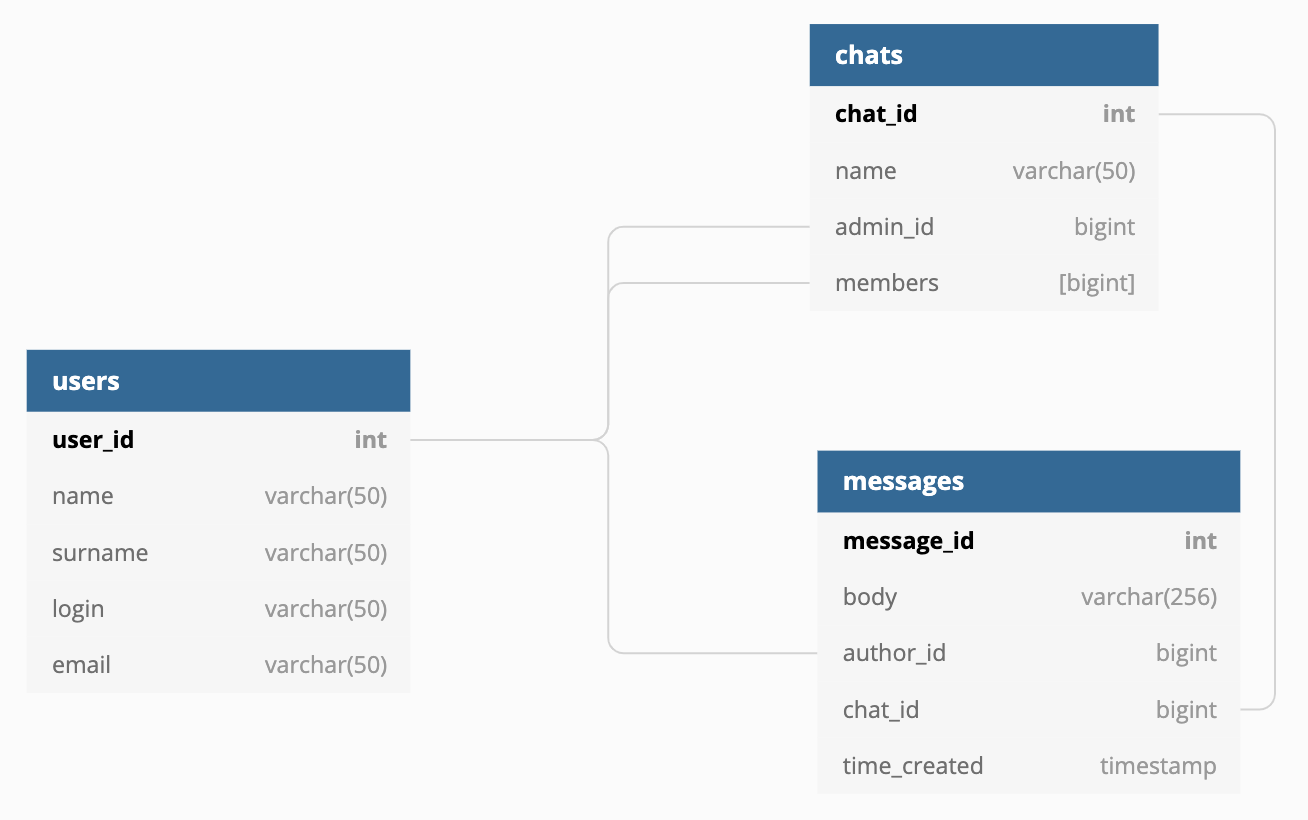
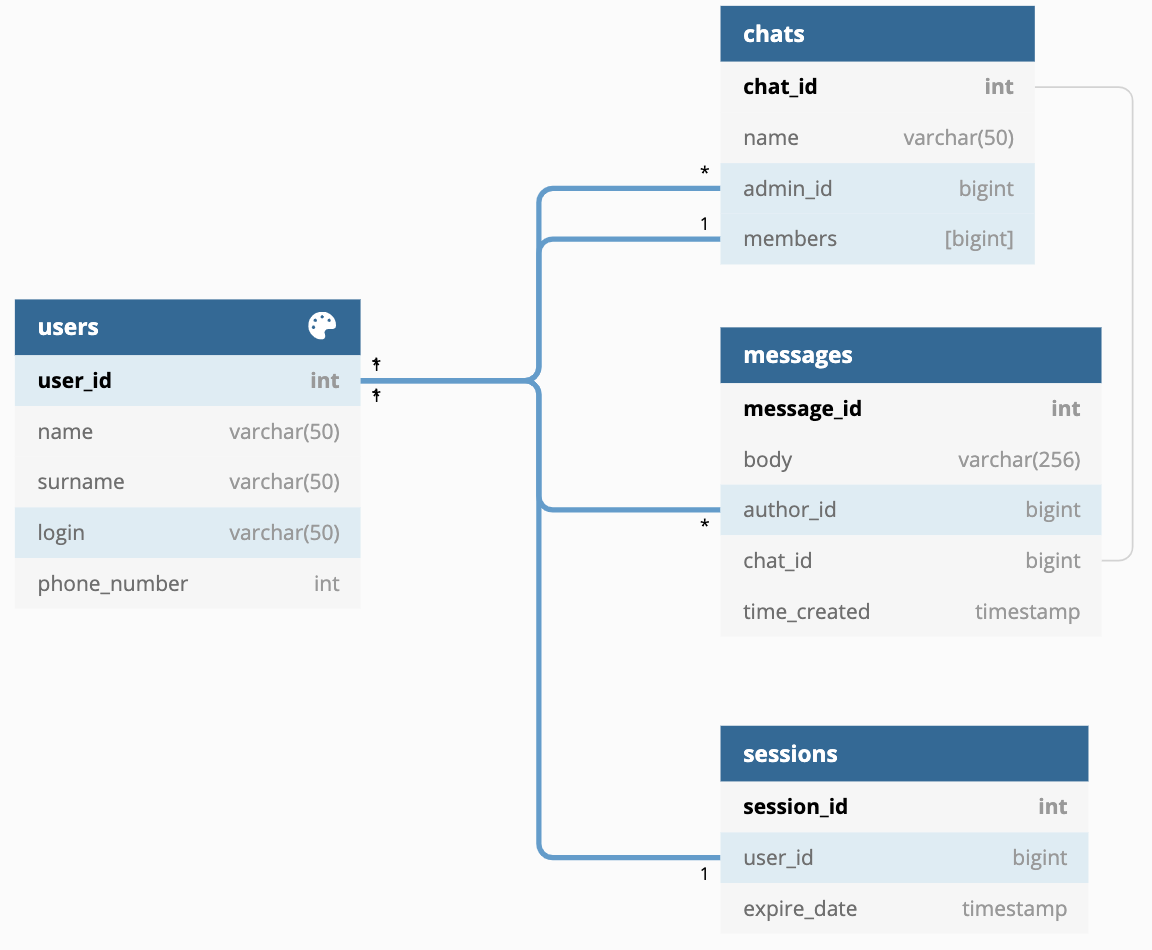
Add flow and fix base

diff --git a/HW3/README.md b/HW3/README.md
@@ -19,6 +19,9 @@
 [ссылка](https://dbdiagram.io/d/5f9ee9773a78976d7b7a0495)
 
 ## 5. Физическая системы хранения (конкретные СУБД, шардинг, расчет нагрузки, обоснование реализуемости на основе результатов нагрузочного тестирования)
+### Алгоритм работы с запросом пользователям
+![flow](images/flow.png)
+
 Хранить сессии активных пользователей лучше всего в высокопроизводительной БД, которая стоит перед бекендом и снимает долю нагрузки с него. Возьмём [Redis](https://eax.me/redis/), поскольку он удовлетворяет нашим потребностям по функционалу, лучше своего конкурента Memcached и способен выдерживать заданную нагрузку [benchmark](https://redis.io/topics/benchmarks). Для лучшей производительности стоит завести несколько инстансов (2-4)
 
 Для хранения основных данных я выбрал базу PostgreSQL из-за её сильных сторон:
@@ -66,10 +69,10 @@
 > * timestamp with time zone - 8 байт
 > * varchar(n) - n байт
 
-| Название таблицы                   | users            | chats                      | messages                |
-|------------------------------------|------------------|----------------------------|-------------------------|
-| Расчёт размера одной записи [байт] | 8 + (4 * 50)     | 8 + 50 + 8 + (8 * 4)       | 8 + 256 + 8 + 8 + 8     |
-| Размер одной записи [байт]         | 208              | 98                         | 288                     |
+| Название таблицы                   | users            | chats                | messages            | sessions  |
+|------------------------------------|------------------|----------------------|---------------------|-----------|
+| Расчёт размера одной записи [байт] | 8 + 8 + (3 * 50) | 8 + 50 + 8 + (4 * 8) | 8 + 8 + 8 + 8 + 256 | 8 + 8 + 8 |
+| Размер одной записи [байт]         | 208              | 98                   | 288                 | 24        |
 > Принимается среднее число пользователей в одном чате - 4
 
 Как уже было сказано выше, таблицу сообщений мы партицируем по дате. Таким образом мы разделяем все данные на условно "свежие" и "старые". Старые данные будут храниться на серверах с большей вместимостью. Свежие же, наоборот, должны отдавать максимально быстро - поэтому у них памяти будет меньше.
